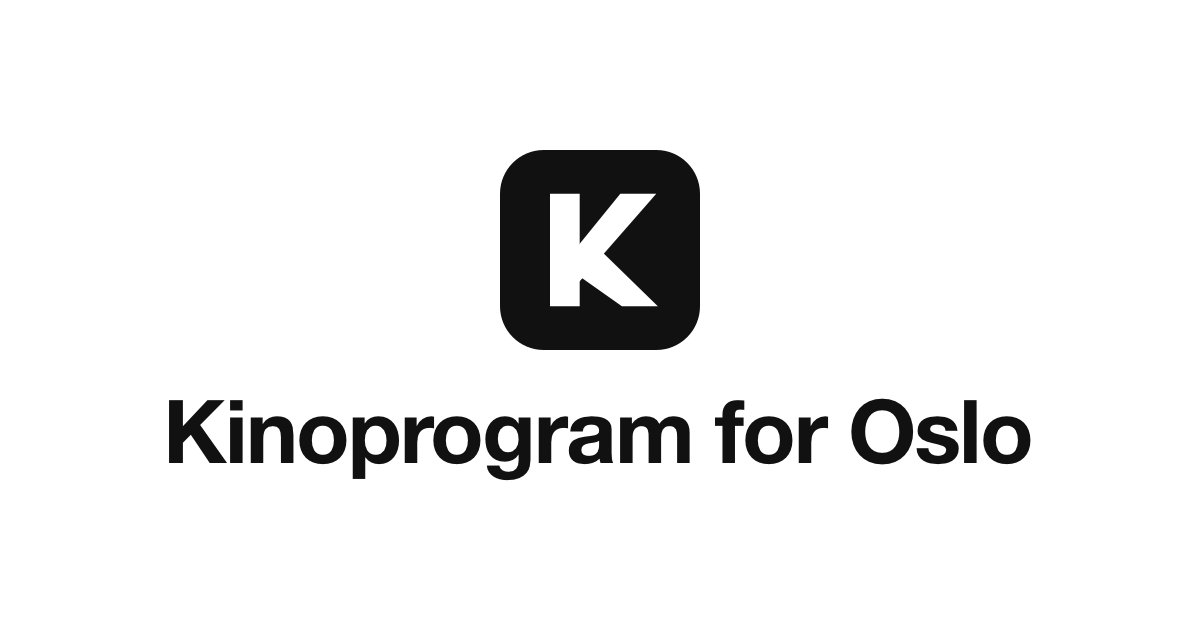
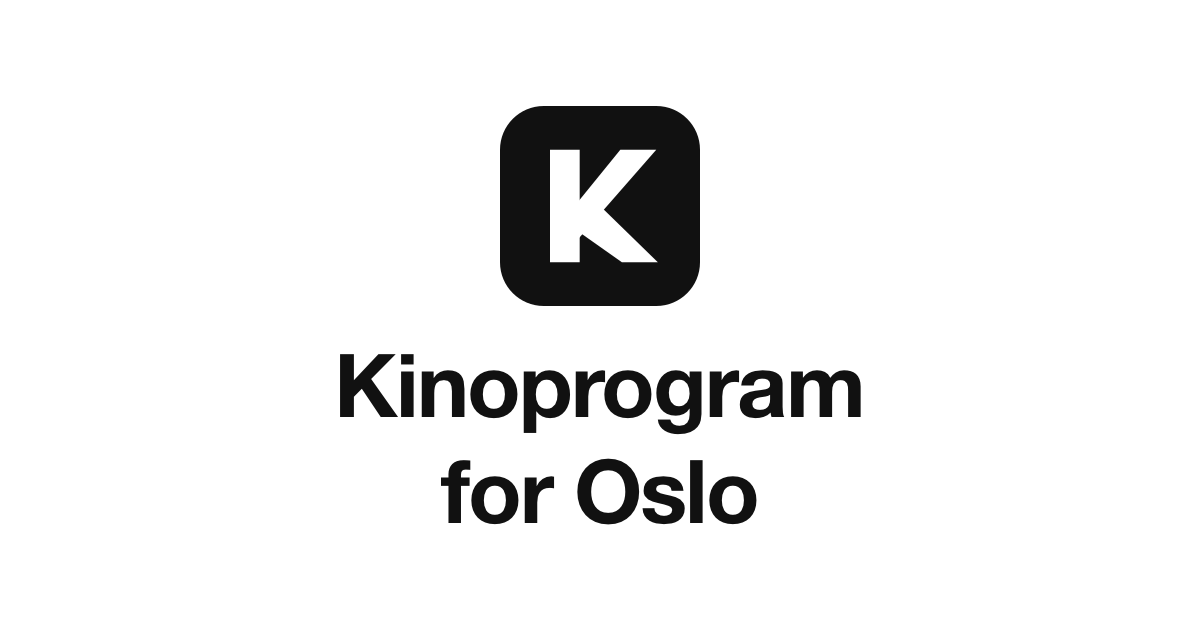
Break the share image title over two centred lines so it survives a square crop

Changed region(s): [[0.1233, 0.1508, 0.8633, 0.8444]]

diff --git a/scripts/make-icons.ts b/scripts/make-icons.ts
@@ -27,12 +27,14 @@ await sharp(svg).resize(192, 192).png().toFile('public/icon-192.png');
 await sharp(svg).resize(512, 512).png().toFile('public/icon-512.png');
 await sharp(svg).resize(512, 512).flatten({ background: INK }).png().toFile('public/icon-maskable.png');
 
-// Share image for links (Open Graph), 1200×630: the logo with the name under it, centred
+// Share image for links (Open Graph), 1200×630: the logo with the name under it, centred.
+// Everything stays inside the middle 630×630, since some services crop the image to a square
 const title = await sharp({
   text: {
-    text: `<span foreground="${INK}" weight="heavy" letter_spacing="-2048">Kinoprogram for Oslo</span>`,
+    text: `<span foreground="${INK}" weight="heavy" letter_spacing="-2048">Kinoprogram\nfor Oslo</span>`,
     font: `${FONT} 88`,
     dpi: 72,
+    align: 'centre',
     rgba: true,
   },
 })
